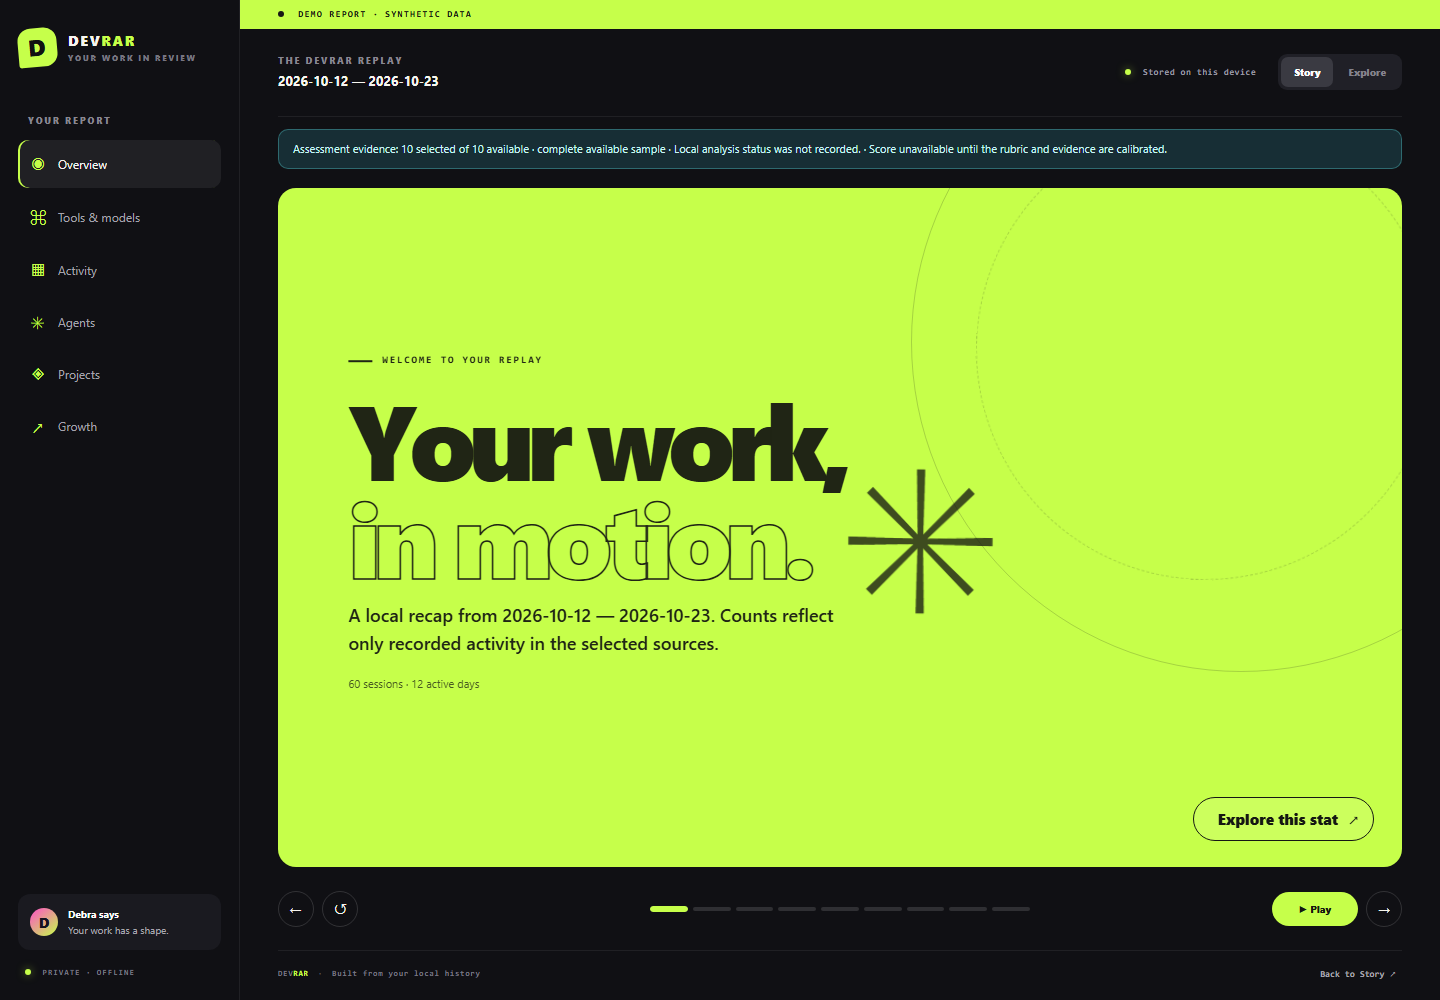
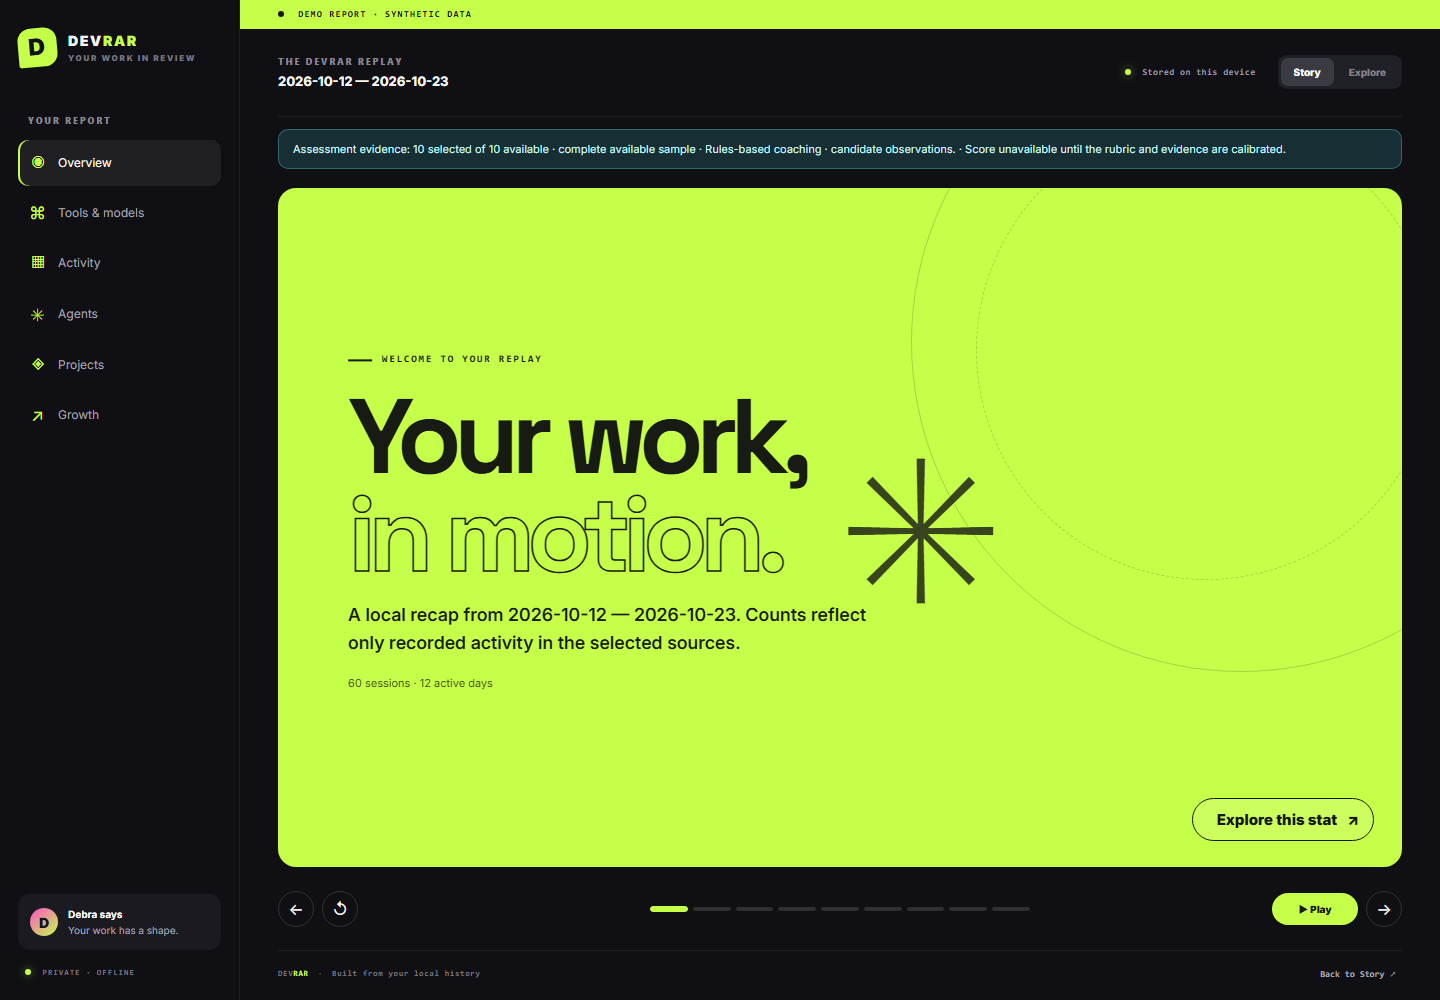
docs: record delivery audit findings and regression evidence

diff --git a/docs/audit.md b/docs/audit.md
@@ -1,0 +1,66 @@
+# Delivery audit — 26 October 2026
+
+The owner requested a complete implementation review against the product and
+visual briefs, fixes for confirmed defects, and a push to the existing pull
+request. Preserve the current visual identity. This audit does not activate
+uncalibrated scores or claim that roadmap adapters already exist.
+
+## Execution plan
+
+1. Parallel review of readers/metrics, assessment/local inference, and rendered
+   UI. The orchestrator reviews CLI, renderer, packaging and specification
+   traceability. Record concrete defects before changing code.
+2. Add failing regressions, apply narrow fixes, and independently inspect the
+   workers' diffs. Verify motion through actual browser animation state.
+3. Run integrated Python coverage, lint/types, browser journeys, package build
+   and clean installation. Update acceptance evidence and handoff accurately.
+4. Commit and push only the DevRAR feature branch; verify current-head CI and
+   update PR #1 without merging it.
+
+## Gates
+
+- [x] Reader and metric review, including missing/partial data and attribution.
+- [x] Assessment and local-provider boundary review.
+- [x] Next/replay restart visual reveals; Pause stops continuous motion.
+- [x] Measured Story counters reveal their exact final values accessibly.
+- [x] Offline typography, assets and packaging match the visual brief.
+- [x] CLI, renderer, private artifacts and share behavior reviewed.
+- [x] Independent acceptance review of the resulting changes.
+- [ ] Fresh integrated checks, installed demo and current-head GitHub CI pass.
+
+## Confirmed defects and corrections
+
+| Area | Defect and resulting behavior | Regression evidence |
+|---|---|---|
+| Credential redaction | Quoted values containing spaces and quoted JSON keys could expose credentials. Both assignment shapes now redact the complete value. | RED/GREEN in test_aporrita.py; independent reviewer reproduced the JSON-key leak and verified the fix |
+| Codex attribution | A turn context without model/turn identifiers retained previous values. New contexts reset missing metadata; ambiguous replies stay unavailable. | Native-shaped synthetic context regression in test_syllogi.py |
+| Git scope | Unknown author dates passed date filters; a first correction skipped the next valid header. Filtered totals now exclude undated commits while retaining following valid commits and partial coverage. | Alternating unknown/valid fixture: two dated commits retained, three undated commits excluded; five counted without a date filter |
+| Daily activity | Output rows reused the last date key. Each bucket now preserves its own calendar date. | Git fixture asserts distinct March/April days and one commit per day |
+| Coaching | Questions, suggestions and anti-skip language could create false growth findings. The detector now excludes these, including Greek question punctuation. | English/Greek positive and counterexample matrix in test_axiologisi.py |
+| Evidence identity | Local findings collapsed equal session IDs from different sources. Episodes now use source/session pairs. | Same-ID, two-source regression in test_topiko.py |
+| Motion | Scene reveals did not restart on Next/Replay; Pause left continuous decorations running. Both behaviors now operate on real animation state. | Actual Chromium animation state/time assertions, plus rapid navigation and hidden-tab pause |
+| Counters and accessibility | Story counters had no count-up; final labels lacked a semantic role and dialogs referenced a missing title ID. Counters now expose the final value accessibly and dialogs have valid names. | Normal/reduced motion, unknown-value and accessible-name browser checks |
+| Charts | Source selection cleared report-wide activity, while null prompt values appeared as zero. The source chart alone filters; unavailable dated values are omitted. | Browser test preserves activity points after source selection and excludes a null datum |
+| Typography | Fonts depended on machine installation. Three unmodified WOFF2 families and complete OFL notices are embedded in the portable report. | Real browser font loading, unit artifact check, pinned hashes and packaging review |
+| Sharing | Save downloaded immediately without the specified preview. Both entry points now show the same aggregate SVG with Cancel/Save; download occurs only on Save. | Browser preview/cancel/focus/download and private-canary checks |
+| Windows CLI | Redirected CP1252 output crashed after creating a report under a Greek path. Output errors now use backslash replacement while preserving stream encoding and report files. | Real subprocess RED/GREEN with a Greek output directory and CP1252 |
+
+Four Luna workers covered data/privacy, assessment/local inference, UI, and
+independent cross-cutting review. The orchestrator reproduced failures, inspected
+diffs and integrated the fixes. Source data used for this audit was synthetic.
+
+## Final verification
+
+Final integrated results and package-installation evidence are recorded in
+[handoff.md](../handoff.md). Current-head checks are attached to
+[PR #1](https://github.com/train-cell/DevRAR/pull/1); agents do not merge it.
+
+## Boundaries that remain explicit
+
+OpenCode, Gemini, Antigravity, active PC-time imports, longitudinal comparisons
+and PNG exports belong to the documented later-version scope. Numerical grades
+need representative annotated evidence and independent human calibration before
+activation. The current coaching is bounded candidate analysis with citations,
+not a certified measure of programmer ability. Human product feedback and
+physical-device accessibility/performance certification are not inferred from
+automated tests.

diff --git a/docs/acceptance.md b/docs/acceptance.md
@@ -6,7 +6,7 @@ and the pull request checks.
 
 | Requirement | Implementation and authoritative evidence |
 |---|---|
-| Installable local CLI | Final wheel/sdist, outside-source clean-environment demo and byte equality of all 14 package files; fresh public clone followed README installation, generated all eight artifacts and retained a clean Git working tree |
+| Installable local CLI | Final wheel/sdist, outside-source clean-environment demo and byte equality of all 20 package files, including font binaries/notices; fresh public clone followed README installation, generated all eight artifacts and retained a clean Git working tree |
 | Claude/Codex/Git ingestion | Synthetic JSONL/ZST and temporary Git fixtures; native Codex spot-checks matched independent human/assistant counts without changing sources |
 | Trustworthy metrics | Date/timezone bounds, unique IDs, explicit child metadata, cross-channel turn reconciliation, author/HEAD scope, file inventory and source provenance regressions |
 | Token usage without invented costs | Claude API-message maxima/dedup; source/model coverage; cumulative Codex usage stays unavailable; docs/usage.md defines the arithmetic |
@@ -14,18 +14,24 @@ and the pull request checks.
 | Optional local coaching | Owned cloud-disabled Ollama process, manifest check, bounded excerpts, strict JSON/quotes, code-derived authorship and deadline/cleanup tests; actual full demo succeeded with installed phi4-mini |
 | Fair numerical score gates | Numeric grades remain null while calibration/human agreement are unvalidated; neither volume nor model prose can activate them |
 | Personal Wrapped | Nine distinct Story chapters, Explore categories, charts, details, source-chart filter, three bounded recognition badges and opt-in original narrator copy |
-| Actual interaction | Chromium keyboard, autoplay/pause, replay, scene/detail focus restoration, source filter and full nine-chapter traversal; screenshots and recordings under ignored artifacts/ |
+| Actual interaction | Chromium keyboard, actual reveal restart, frozen animation clocks on Pause, accessible count-up/final values, scene/detail focus restoration, source-chart filter, null chart points and full nine-chapter traversal; screenshots and recordings under ignored artifacts/ |
 | Mobile and reduced motion | Touch-enabled small viewport, reduced-motion navigation, readable content and no horizontal overflow |
 | Motion smoke | Separate headless Chromium 151 traversal of nine chapters: p95 frame interval 16.8 ms, max 33.4 ms, no unexpected layout shift; one 111 ms long task. Local observation only, no physical-device performance claim |
 | Print | Print CSS exercised in Chromium; generated three-page synthetic PDF inspected for readable content and hidden navigation |
-| Private artifacts and safe sharing | HTML/Markdown/JSON/JSONL/run metadata, common credential redaction, script escaping and exact CSP hash; browser/static SVG allowlist tests exclude private names, quotes and dates |
+| Private artifacts and safe sharing | HTML/Markdown/JSON/JSONL/run metadata, quoted/JSON credential redaction, script escaping and exact CSP hash; both share entries preview safe aggregates and support Cancel before download; browser/static SVG allowlist tests exclude private names, quotes and dates |
 | Offline operation | Generated report has embedded assets, no remote fonts/scripts/analytics, and browser tests observe no external HTTP requests |
+| Portable typography | Three embedded WOFF2 font families, complete OFL notices, pinned hashes, actual browser loading and system fallbacks; docs/assets.md |
 | Open-source delivery | MIT, contribution guide, documented source/asset provenance, feature branch and attached PR; merge remains the owner's action |
 
 [PR #1](https://github.com/train-cell/DevRAR/pull/1) contains the implementation.
 [Implementation CI](https://github.com/train-cell/DevRAR/actions/runs/40398383268)
 passed Linux/Windows on Python 3.11/3.12 and the separate Chromium job. See the
 pull request for checks of the current documentation follow-up.
+
+The subsequent [delivery audit](audit.md) records defects that the initial
+acceptance checks missed, their RED/GREEN regressions and the corrected behavior.
+Checkboxes and coverage percentages alone are not proof of full specification
+compliance.
 
 Numerical rubric calibration, human agreement, cohort percentiles, additional
 vendor adapters and actual PC-time imports remain outside the enabled v0.1

diff --git a/handoff.md b/handoff.md
@@ -9,7 +9,9 @@ Workspace: `C:/Users/skyd3/antigarvity/DevRAR`.
 Repository: https://github.com/train-cell/DevRAR.
 Branch: `codex/initial-mvp`. Agents must not merge it.
 Pull request: https://github.com/train-cell/DevRAR/pull/1 (open, attached to the chat).
-Verified implementation commit: `1f61f1b44f29e0f4d3369b7fa06e721012b32920`.
+Initial implementation commit: `1f61f1b44f29e0f4d3369b7fa06e721012b32920`.
+The subsequent [delivery audit](docs/audit.md) corrects defects missed by the
+initial acceptance checks. Current source and checks are on PR #1.
 
 ## Verified implementation
 
@@ -31,22 +33,26 @@ Verified implementation commit: `1f61f1b44f29e0f4d3369b7fa06e721012b32920`.
 
 ## Validation
 
-- Windows / Python 3.11.9: 231 passed, 2 skipped; 100% line coverage
-  (1,876 source statements). Skips are the optional browser collection and one
+- Windows / Python 3.11.9: 248 passed, 2 skipped; 100% line coverage
+  (1,910 source statements). Skips are the optional browser collection and one
   POSIX-specific case-sensitive repository test.
 - Ruff and strict mypy passed for all 11 source modules.
-- Chromium: 5 browser tests passed. Desktop, mobile, all chapters, focus return,
-  source-chart filter, share download, reduced motion, print and roast exercised.
-- A three-page synthetic print PDF was generated and its first page inspected;
-  all pages contain text. Browser screenshots/recordings remain ignored.
+- Chromium: 10 browser tests passed. Desktop/mobile, all chapters, real animation
+  restart/pause, accessible counters/dialog names, actual font loading,
+  source-chart/null handling, preview/cancel/save, reduced motion, print, roast
+  and analysis-method status exercised. Synthetic screenshots were inspected.
+- The initial version also produced a three-page synthetic print PDF whose first
+  page was inspected; the audited version passes the browser print-style checks.
+  Browser screenshots/recordings remain ignored except the synthetic README preview.
 - Full synthetic CLI local analysis succeeded with installed phi4-mini:latest
   and Ollama 0.40.11; the provider returned valid citations and no cloud fallback.
   Timeout, malformed-output and attribution failures also preserved a clear partial report.
 - Two bounded native Codex samples matched independent human/canonical reply
   counts and source hashes remained unchanged. Native data is not committed.
-- Final wheel and sdist built. A clean virtual environment ran the installed CLI
-  outside the source tree; all 14 package files matched source bytes, and the
-  generated private ignore guard was verified.
+- Final audited wheel and sdist built. A new clean virtual environment ran the
+  installed CLI outside the source tree; all 20 package files matched source
+  bytes, including fonts/notices, and the private ignore guard was verified.
+  Package metadata declares MIT AND OFL-1.1 and includes four license notices.
 - A fresh clone of the public implementation branch followed the README's venv,
   editable installation and demo commands successfully, with only runtime
   dependencies installed. All eight expected artifacts existed, the package
@@ -54,14 +60,15 @@ Verified implementation commit: `1f61f1b44f29e0f4d3369b7fa06e721012b32920`.
 - GitHub Actions passed all five jobs: Linux/Windows with Python 3.11/3.12,
   including Ruff, strict mypy, full coverage, build and demo, plus Chromium.
   Implementation evidence: https://github.com/train-cell/DevRAR/actions/runs/40398383268.
-  Current checks are available on the pull request.
+  Those URLs document the initial implementation. The audit push's current-head
+  checks are verified separately before handoff and shown on the pull request.
 - A separate headless Chromium 151 smoke traversed all nine chapters at 1440x1000:
   278 frame intervals, p95 16.8 ms, max 33.4 ms, no interval above 50 ms and no
   unexpected layout shift. One 111 ms long task was recorded. These are local
   observations, not a performance guarantee or a physical-device benchmark.
 
-Final wheel SHA256:
[1 lines of base64/hex data omitted]
+Final audited wheel SHA256:
[1 lines of base64/hex data omitted]
 
 ## Limits
 

diff --git a/PLAN.md b/PLAN.md
@@ -136,3 +136,12 @@ Completion audit additions: implement and verify the optional local analyzer,
 print layout, visible opt-in roast, bounded recognition badges and supported
 Claude message usage aggregation before final publication. These are acceptance
 items from the original brief, not a redefinition of a smaller release.
+
+## Delivery audit follow-up
+
+The owner's subsequent full review request is tracked in [docs/audit.md](docs/audit.md).
+It includes fixes for missed motion/accessibility behavior, share preview,
+offline typography, credential redaction, source attribution, Git daily/date
+semantics, coaching false positives and redirected Windows CLI output. Its fresh
+verification supersedes the initial results above. Remaining roadmap features
+and human score calibration retain their original explicit status.
